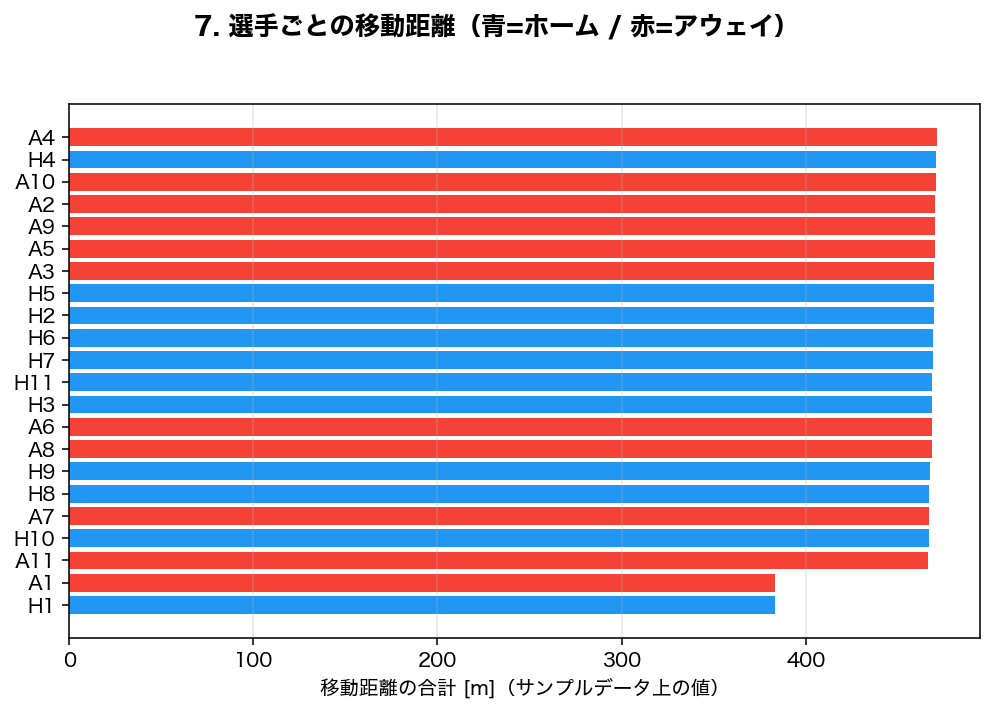
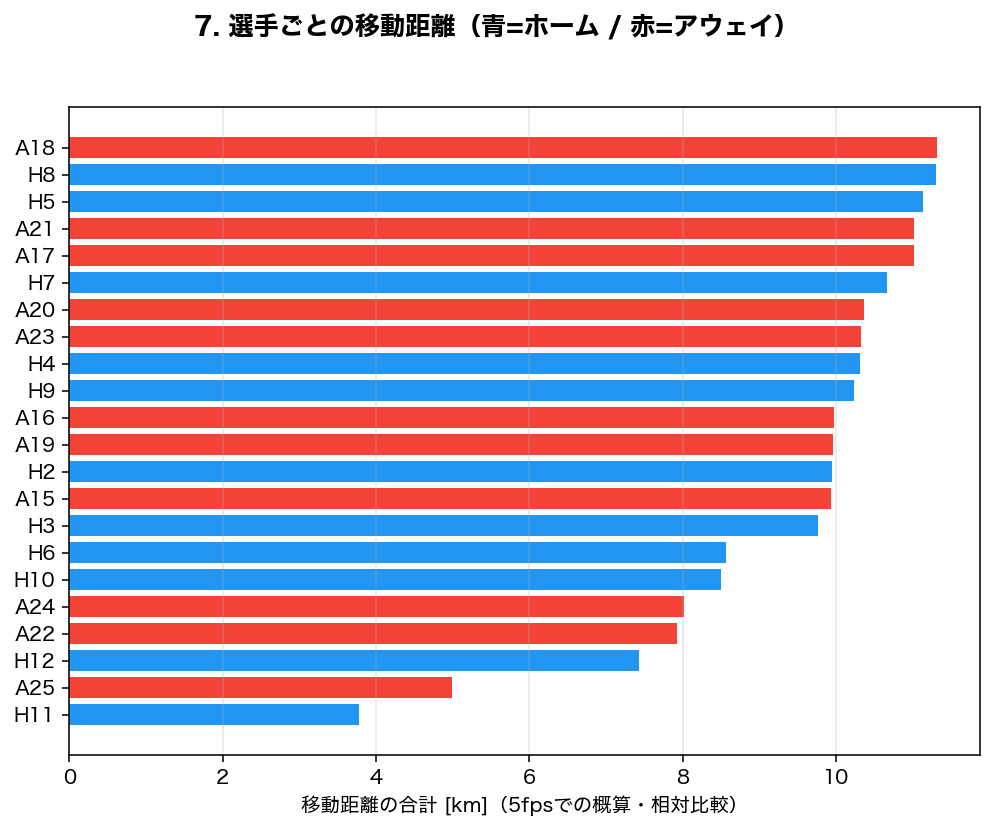
feat(md2): 第3回の分析ギャラリーを本物のデータ(Metrica)に差し替え
- 合成soccer.csvではなく、Metrica Sports Sample Game 1(実試合・25fps)を分析した本物の10図に更新
  ・0〜1正規化→メートル変換、後半の攻撃方向そろえ、25→5fps間引きの前処理を実装
  ・ヒートマップ・平均ポジション・移動距離(中盤~10km/GK最少)・重心の時間変化など、実データらしい結果に
- 再現スクリプト metrica_analysis.py を配布(Metricaデータのダウンロード手順つき)。soccer_analysis.pyは削除
- キャプション/読み方を「実際のプロ試合データの分析結果」に正直に修正(合成データの注記を削除)

diff --git a/docs/md2_week_3.html b/docs/md2_week_3.html
@@ -1670,21 +1670,28 @@ python -m http.server 8000</pre>
 
       <!-- 実際にやってみた：10例の分析・可視化ギャラリー -->
       <div class="card group" style="margin-top:0.8rem">
-        <div class="card-header"><h3>✅ 実際にやってみた：<code>soccer.csv</code> を分析・可視化した10例</h3></div>
-        <p style="font-size:0.9rem;color:#ccc;margin-bottom:0.5rem">ウプサラ大学の例のように、今日の <code>soccer.csv</code> <strong>だけ</strong>から Python（<strong>pandas + matplotlib</strong>）でサッカーピッチ上に描いた分析例。<strong>特に注目：ホーム／アウェイが「フィールドのどこをよく使ったか」のヒートマップ（下の 1・2）</strong>。</p>
+        <div class="card-header"><h3>✅ 実際にやってみた：<strong>本物のトラッキングデータ</strong>を分析・可視化した10例</h3></div>
+        <p style="font-size:0.9rem;color:#ccc;margin-bottom:0.5rem">ウプサラ大学の例と同じように、<strong>本物のサッカーのトラッキングデータ</strong>（<a href="https://github.com/metrica-sports/sample-data" target="_blank" rel="noopener" style="color:#4FC3F7">Metrica Sports が公開する Sample Game 1</a>・約90分・25fps・実試合）を Python（<strong>pandas + matplotlib</strong>）で分析した結果。<strong>特に注目：ホーム／アウェイが「フィールドのどこをよく使ったか」のヒートマップ（下の 1・2）</strong>。今日 <code>soccer.csv</code> で学んだ読み方が、そのまま本物にも通用する。</p>
 
         <div class="callout-tip" style="margin-bottom:0.6rem">
-          <h4>自分で動かすには</h4>
-          <p style="font-size:0.88rem;margin-bottom:0.3rem">分析スクリプトを配布しています：<a href="soccer_analysis.py" download style="color:#4FC3F7;font-weight:700">soccer_analysis.py をダウンロード</a>（<code>soccer.csv</code> と同じフォルダに置く）。第3回の手順で pandas を入れたら、matplotlib も足して実行：</p>
+          <h4>自分で動かすには（本物データを入手して実行）</h4>
+          <p style="font-size:0.88rem;margin-bottom:0.3rem">分析スクリプト <a href="metrica_analysis.py" download style="color:#4FC3F7;font-weight:700">metrica_analysis.py をダウンロード</a>し、Metrica の公開データを同じフォルダに置いて実行する：</p>
 <pre>Terminal
+<span class="cmt"># ① Metricaの公開サンプルデータを取得</span>
+B=https://raw.githubusercontent.com/metrica-sports/sample-data/master/data/Sample_Game_1
+curl -L "$B/Sample_Game_1_RawTrackingData_Home_Team.csv" -o home.csv
+curl -L "$B/Sample_Game_1_RawTrackingData_Away_Team.csv" -o away.csv
+
+<span class="cmt"># ② ライブラリを入れて実行</span>
 uv pip install pandas matplotlib
-python soccer_analysis.py      <span class="cmt"># anal_01.png 〜 anal_10.png が出力される</span></pre>
+python metrica_analysis.py     <span class="cmt"># anal_01.png 〜 anal_10.png が出力される</span></pre>
         </div>
 
         <p style="font-weight:700;color:#93D500;font-size:0.9rem;margin:0.4rem 0 0.2rem">ヒートマップの中心となるコード（＝位置をマス目で数えて色にする）</p>
 <pre>Python
-<span class="kw">import</span> pandas <span class="kw">as</span> pd, numpy <span class="kw">as</span> np, matplotlib.pyplot <span class="kw">as</span> plt
-df = pd.<span class="fn">read_csv</span>(<span class="str">'soccer.csv'</span>)
+<span class="kw">import</span> numpy <span class="kw">as</span> np, matplotlib.pyplot <span class="kw">as</span> plt
+<span class="cmt"># Metricaデータを読み込み→メートルに変換→縦持ちにした表（読み込み処理は metrica_analysis.py）</span>
+df = <span class="fn">load_metrica</span>()
 home = df[df[<span class="str">'team'</span>] == <span class="str">'home'</span>]          <span class="cmt"># ホームだけ抽出</span>
 
 <span class="cmt"># 位置を2次元ヒストグラムにする（＝フィールドをマス目に区切って数える）</span>
@@ -1694,27 +1701,29 @@ H, _, _ = np.<span class="fn">histogram2d</span>(home[<span class="str">'x'</spa
 plt.<span class="fn">imshow</span>(H.T, origin=<span class="str">'lower'</span>, extent=[-<span class="num">52.5</span>, <span class="num">52.5</span>, -<span class="num">34</span>, <span class="num">34</span>],
            cmap=<span class="str">'YlOrRd'</span>)                <span class="cmt"># よく使ったマスほど濃い色に</span>
 plt.<span class="fn">savefig</span>(<span class="str">'home_heatmap.png'</span>)</pre>
-        <p style="font-size:0.82rem;color:#999;margin:0.2rem 0 0.6rem">※ 上は要点だけ。緑のピッチや白線を描く <code>draw_pitch()</code> を含む全コードは <code>soccer_analysis.py</code> にある。</p>
+        <p style="font-size:0.82rem;color:#999;margin:0.2rem 0 0.6rem">※ 上は要点だけ。Metricaデータの読み込み（0〜1座標→メートル変換、後半の向きそろえ）や、緑のピッチを描く <code>draw_pitch()</code> を含む全コードは <code>metrica_analysis.py</code> にある。</p>
 
         <div style="display:grid;grid-template-columns:repeat(auto-fit,minmax(16rem,1fr));gap:0.7rem">
-          <figure style="margin:0"><img src="img/md2w3_anal_01.png" alt="ホームチームのフィールド利用ヒートマップ" style="width:100%;border:1px solid #333;border-radius:8px;display:block"><figcaption style="font-size:0.8rem;color:#ccc;margin-top:0.2rem">① ホームは<strong>自陣（左）〜中央</strong>をよく使う</figcaption></figure>
-          <figure style="margin:0"><img src="img/md2w3_anal_02.png" alt="アウェイチームのフィールド利用ヒートマップ" style="width:100%;border:1px solid #333;border-radius:8px;display:block"><figcaption style="font-size:0.8rem;color:#ccc;margin-top:0.2rem">② アウェイは<strong>自陣（右）〜中央</strong>が中心</figcaption></figure>
-          <figure style="margin:0"><img src="img/md2w3_anal_03.png" alt="ボールのフィールド利用ヒートマップ" style="width:100%;border:1px solid #333;border-radius:8px;display:block"><figcaption style="font-size:0.8rem;color:#ccc;margin-top:0.2rem">③ ボールは<strong>広く動き回る</strong></figcaption></figure>
-          <figure style="margin:0"><img src="img/md2w3_anal_04.png" alt="陣地の優勢（ホーム−アウェイの密度差）" style="width:100%;border:1px solid #333;border-radius:8px;display:block"><figcaption style="font-size:0.8rem;color:#ccc;margin-top:0.2rem">④ 陣地の優勢：<strong>青=左（ホーム）／赤=右（アウェイ）</strong></figcaption></figure>
-          <figure style="margin:0"><img src="img/md2w3_anal_05.png" alt="ホームの平均フォーメーション" style="width:100%;border:1px solid #333;border-radius:8px;display:block"><figcaption style="font-size:0.8rem;color:#ccc;margin-top:0.2rem">⑤ ホームの<strong>平均フォーメーション</strong>（背番号つき）</figcaption></figure>
-          <figure style="margin:0"><img src="img/md2w3_anal_06.png" alt="アウェイの平均フォーメーション" style="width:100%;border:1px solid #333;border-radius:8px;display:block"><figcaption style="font-size:0.8rem;color:#ccc;margin-top:0.2rem">⑥ アウェイの<strong>平均フォーメーション</strong></figcaption></figure>
-          <figure style="margin:0"><img src="img/md2w3_anal_07.png" alt="選手ごとの移動距離" style="width:100%;border:1px solid #333;border-radius:8px;display:block"><figcaption style="font-size:0.8rem;color:#ccc;margin-top:0.2rem">⑦ 選手ごとの<strong>移動距離</strong>（誰がよく走ったか）</figcaption></figure>
-          <figure style="margin:0"><img src="img/md2w3_anal_08.png" alt="ボールの軌跡" style="width:100%;border:1px solid #333;border-radius:8px;display:block"><figcaption style="font-size:0.8rem;color:#ccc;margin-top:0.2rem">⑧ <strong>ボールの軌跡</strong>（90分ぶん）</figcaption></figure>
-          <figure style="margin:0"><img src="img/md2w3_anal_09.png" alt="チーム重心Xの時間変化" style="width:100%;border:1px solid #333;border-radius:8px;display:block"><figcaption style="font-size:0.8rem;color:#ccc;margin-top:0.2rem">⑨ チーム重心X の時間変化＝<strong>攻め上がり／守りの波</strong></figcaption></figure>
+          <figure style="margin:0"><img src="img/md2w3_anal_01.png" alt="ホームのフィールド利用ヒートマップ（Metrica実データ）" style="width:100%;border:1px solid #333;border-radius:8px;display:block"><figcaption style="font-size:0.8rem;color:#ccc;margin-top:0.2rem">① ホームは<strong>自陣＋中央</strong>に長くいた（濃い所ほど滞在が長い）</figcaption></figure>
+          <figure style="margin:0"><img src="img/md2w3_anal_02.png" alt="アウェイのフィールド利用ヒートマップ（Metrica実データ）" style="width:100%;border:1px solid #333;border-radius:8px;display:block"><figcaption style="font-size:0.8rem;color:#ccc;margin-top:0.2rem">② アウェイも<strong>自陣＋中央</strong>が濃い</figcaption></figure>
+          <figure style="margin:0"><img src="img/md2w3_anal_03.png" alt="ボールのフィールド利用ヒートマップ（Metrica実データ）" style="width:100%;border:1px solid #333;border-radius:8px;display:block"><figcaption style="font-size:0.8rem;color:#ccc;margin-top:0.2rem">③ ボールは<strong>中央のレーンを軸に</strong>動く</figcaption></figure>
+          <figure style="margin:0"><img src="img/md2w3_anal_04.png" alt="陣地の優勢（ホーム−アウェイの密度差）" style="width:100%;border:1px solid #333;border-radius:8px;display:block"><figcaption style="font-size:0.8rem;color:#ccc;margin-top:0.2rem">④ 陣地の優勢：<strong>青=左（ホーム）／赤=右（アウェイ）</strong>で自陣側を支配</figcaption></figure>
+          <figure style="margin:0"><img src="img/md2w3_anal_05.png" alt="ホームの平均ポジション" style="width:100%;border:1px solid #333;border-radius:8px;display:block"><figcaption style="font-size:0.8rem;color:#ccc;margin-top:0.2rem">⑤ ホームの<strong>平均ポジション</strong>（実際の布陣が浮かぶ）</figcaption></figure>
+          <figure style="margin:0"><img src="img/md2w3_anal_06.png" alt="アウェイの平均ポジション" style="width:100%;border:1px solid #333;border-radius:8px;display:block"><figcaption style="font-size:0.8rem;color:#ccc;margin-top:0.2rem">⑥ アウェイの<strong>平均ポジション</strong></figcaption></figure>
+          <figure style="margin:0"><img src="img/md2w3_anal_07.png" alt="選手ごとの移動距離" style="width:100%;border:1px solid #333;border-radius:8px;display:block"><figcaption style="font-size:0.8rem;color:#ccc;margin-top:0.2rem">⑦ <strong>移動距離</strong>：中盤は約10km、GKが最少 ← サッカーの常識どおり</figcaption></figure>
+          <figure style="margin:0"><img src="img/md2w3_anal_08.png" alt="ボールの軌跡" style="width:100%;border:1px solid #333;border-radius:8px;display:block"><figcaption style="font-size:0.8rem;color:#ccc;margin-top:0.2rem">⑧ <strong>ボールの軌跡</strong>（試合開始〜15分）</figcaption></figure>
+          <figure style="margin:0"><img src="img/md2w3_anal_09.png" alt="チーム重心Xの時間変化" style="width:100%;border:1px solid #333;border-radius:8px;display:block"><figcaption style="font-size:0.8rem;color:#ccc;margin-top:0.2rem">⑨ チーム重心X の時間変化＝<strong>攻守で前後する波</strong>（両チーム連動）</figcaption></figure>
           <figure style="margin:0"><img src="img/md2w3_anal_10.png" alt="両チーム重心の軌跡" style="width:100%;border:1px solid #333;border-radius:8px;display:block"><figcaption style="font-size:0.8rem;color:#ccc;margin-top:0.2rem">⑩ 両チーム<strong>重心の軌跡</strong>（青=ホーム／赤=アウェイ）</figcaption></figure>
         </div>
 
         <div class="callout-info" style="margin-top:0.6rem">
           <h4>この結果の読み方（＝発展課題のヒント）</h4>
           <ul class="point-list" style="margin-bottom:0">
-            <li>ヒートマップ①②で、両チームが<strong>それぞれ自陣寄りをよく使い、中央で押し合っている</strong>のが見える</li>
-            <li>これらは<strong>すべて <code>soccer.csv</code> だけ</strong>から作れる。あなたも <code>soccer_analysis.py</code> の1つを選んで改造したり、A-Frame（3D）で同じ指標を表示すれば、りっぱな発展課題になる</li>
-            <li><span style="color:#999">※ 今回は合成サンプルなので分布が規則的だが、本物のトラッキングデータでも<strong>同じコード</strong>で分析できる。</span></li>
+            <li>ヒートマップ①②で、両チームとも<strong>自陣＋中央に長くいて、相手ゴール前（攻撃サード）は薄い</strong> ── 守る時間が長く、中央を経由する、という<strong>本物の試合の傾向</strong>が読み取れる</li>
+            <li>⑦の移動距離で <strong>GK が最少・中盤が最多（約10km）</strong>という、サッカーの常識どおりの結果が計算だけから出る</li>
+            <li><strong>これは正真正銘、実際のプロの試合データ（Metrica）の分析結果</strong>。今日 <code>soccer.csv</code> で覚えた「読み込む → 抽出する → <code>histogram2d</code> で数える」手順が、そのまま本物に通用する</li>
+            <li>あなたも指標を1つ選んで作り、A-Frame（3D）で同じものを表示すれば、りっぱな発展課題になる</li>
+            <li><span style="color:#999">データ出典：Metrica Sports Sample Data（研究・教育用に無償公開）。</span></li>
           </ul>
         </div>
       </div>

diff --git a/docs/metrica_analysis.py b/docs/metrica_analysis.py
@@ -1,0 +1,177 @@
+"""Metrica Sports の本物のトラッキングデータ（Sample Game 1）を分析・可視化する（10例）。
+ホーム/アウェイのフィールド利用ヒートマップなどを、サッカーピッチ上に描画する。
+
+■ データの入手（無料・公開データ）
+  Metrica Sports が研究・教育向けに公開しているサンプルデータ。次の2ファイルを
+  このスクリプトと同じフォルダに置く（ファイル名を home.csv / away.csv に変える）:
+    home.csv ← Sample_Game_1_RawTrackingData_Home_Team.csv
+    away.csv ← Sample_Game_1_RawTrackingData_Away_Team.csv
+  取得元（どちらでも）:
+    - GitHub: https://github.com/metrica-sports/sample-data （data/Sample_Game_1/）
+    - Kaggle: https://www.kaggle.com/datasets/ekrembayar/metrica-sports-football-tracking-data
+  ダウンロード例（ターミナル）:
+    B=https://raw.githubusercontent.com/metrica-sports/sample-data/master/data/Sample_Game_1
+    curl -L "$B/Sample_Game_1_RawTrackingData_Home_Team.csv" -o home.csv
+    curl -L "$B/Sample_Game_1_RawTrackingData_Away_Team.csv" -o away.csv
+
+■ 実行
+    uv pip install pandas matplotlib
+    python metrica_analysis.py       # anal_01.png 〜 anal_10.png が出力される
+
+※ 生の座標は 0〜1 に正規化されている。メートル(中心が原点)に変換し、後半は
+   攻撃方向がそろうように 180度回転してから集計する（分析の定番の前処理）。
+"""
+import csv, os
+import numpy as np
+import pandas as pd
+import matplotlib
+matplotlib.use("Agg")
+import matplotlib.pyplot as plt
+from matplotlib.patches import Rectangle, Circle
+
+plt.rcParams["font.family"] = ["Hiragino Sans", "Meiryo", "IPAexGothic", "sans-serif"]
+plt.rcParams["axes.unicode_minus"] = False
+
+FIELD = (105.0, 68.0)
+L, W = FIELD[0] / 2, FIELD[1] / 2
+BLUE, RED = "#2196f3", "#f44336"
+STEP = 5   # 25fps → 5fps に間引き（軽くするため）
+
+
+def read_team(fname, team):
+    """Metrica形式のCSVを読み、メートル座標＋攻撃方向をそろえて返す。"""
+    with open(fname) as fp:
+        r = csv.reader(fp); next(r)
+        jerseys = [x for x in next(r) if x != '']
+        cols = next(r)
+    for i, j in enumerate(jerseys):
+        cols[i * 2 + 3] = team + "_" + j + "_x"
+        cols[i * 2 + 4] = team + "_" + j + "_y"
+    cols[-2], cols[-1] = "ball_x", "ball_y"
+    df = pd.read_csv(fname, names=cols, skiprows=3)
+    xs = [c for c in df.columns if c.endswith("_x")]
+    ys = [c for c in df.columns if c.endswith("_y")]
+    df[xs] = (df[xs] - 0.5) * FIELD[0]        # 0〜1 → メートル(中心が原点)
+    df[ys] = -1 * (df[ys] - 0.5) * FIELD[1]
+    df.loc[df.Period == 2, xs + ys] *= -1      # 後半は攻撃方向をそろえる
+    return df
+
+
+def melt(df, team):
+    """各選手の (x,y) を縦に積んで long 形式 {frame,team,id,x,y} にする。"""
+    out = []
+    d = df.iloc[::STEP]
+    for cx in [c for c in d.columns if c.startswith(team + "_") and c.endswith("_x")]:
+        pid = int(cx.split("_")[1]); cy = cx[:-2] + "_y"
+        s = d[["Frame", cx, cy]].dropna().rename(columns={"Frame": "frame", cx: "x", cy: "y"})
+        s["team"] = team.lower(); s["id"] = pid
+        out.append(s)
+    return pd.concat(out, ignore_index=True)
+
+
+H = read_team("home.csv", "Home")
+A = read_team("away.csv", "Away")
+home, away = melt(H, "Home"), melt(A, "Away")
+ball = H.iloc[::STEP][["Frame", "ball_x", "ball_y"]].dropna() \
+        .rename(columns={"Frame": "frame", "ball_x": "x", "ball_y": "y"})
+ball["team"] = "ball"; ball["id"] = 0
+
+
+def draw_pitch(ax, bg="#2e7d32", line="white"):
+    ax.add_patch(Rectangle((-L, -W), 105, 68, facecolor=bg, edgecolor=line, lw=1.6, zorder=0))
+    ax.plot([0, 0], [-W, W], color=line, lw=1.4, zorder=2)
+    ax.add_patch(Circle((0, 0), 9.15, fill=False, ec=line, lw=1.4, zorder=2))
+    ax.add_patch(Circle((0, 0), 0.5, color=line, zorder=2))
+    for s in (-L, L - 16.5):
+        ax.add_patch(Rectangle((s, -20.16), 16.5, 40.32, fill=False, ec=line, lw=1.4, zorder=2))
+    for s in (-L, L - 5.5):
+        ax.add_patch(Rectangle((s, -9.16), 5.5, 18.32, fill=False, ec=line, lw=1.4, zorder=2))
+    ax.set_xlim(-56, 56); ax.set_ylim(-38, 38); ax.set_aspect("equal"); ax.axis("off")
+
+
+def save(fig, name, title):
+    fig.suptitle(title, fontsize=13, fontweight="bold", y=0.98)
+    fig.tight_layout(rect=[0, 0, 1, 0.95])
+    fig.savefig(name, facecolor="white", bbox_inches="tight"); plt.close(fig)
+    print("saved", name)
+
+
+def heatmap(sub, name, title):
+    fig, ax = plt.subplots(figsize=(7.2, 4.9)); draw_pitch(ax)
+    Hh, _, _ = np.histogram2d(sub.x, sub.y, bins=[50, 32], range=[[-L, L], [-W, W]])
+    Hm = np.where(Hh.T > 0, Hh.T, np.nan)
+    c = plt.get_cmap("YlOrRd").copy(); c.set_bad(alpha=0)
+    ax.imshow(Hm, extent=[-L, L, -W, W], origin="lower", cmap=c, alpha=0.8,
+              vmax=np.nanpercentile(Hh[Hh > 0], 97), interpolation="bilinear", zorder=1)
+    save(fig, name, title)
+
+
+heatmap(home, "anal_01.png", "1. ホームのフィールド利用ヒートマップ（Metrica実データ）")
+heatmap(away, "anal_02.png", "2. アウェイのフィールド利用ヒートマップ（Metrica実データ）")
+heatmap(ball, "anal_03.png", "3. ボールのフィールド利用ヒートマップ（Metrica実データ）")
+
+# 4. 陣地の優勢
+fig, ax = plt.subplots(figsize=(7.2, 4.9)); draw_pitch(ax, bg="#20402a")
+Hh, _, _ = np.histogram2d(home.x, home.y, bins=[50, 32], range=[[-L, L], [-W, W]])
+Ha, _, _ = np.histogram2d(away.x, away.y, bins=[50, 32], range=[[-L, L], [-W, W]])
+D = (Hh - Ha).T; m = np.nanpercentile(np.abs(D), 99) or 1
+ax.imshow(D, extent=[-L, L, -W, W], origin="lower", cmap="bwr_r", vmin=-m, vmax=m,
+          alpha=0.85, interpolation="bilinear", zorder=1)
+ax.text(-L + 3, -W + 2, "青=ホーム優勢", color=BLUE, fontsize=9, fontweight="bold")
+ax.text(L - 22, -W + 2, "赤=アウェイ優勢", color=RED, fontsize=9, fontweight="bold")
+save(fig, "anal_04.png", "4. 陣地の優勢（ホーム − アウェイの密度差）")
+
+# 5・6 平均ポジション（出場上位11人）
+for tdf, col, name, title in [
+    (home, BLUE, "anal_05.png", "5. ホームの平均ポジション（出場上位11人）"),
+    (away, RED, "anal_06.png", "6. アウェイの平均ポジション（出場上位11人）"),
+]:
+    fig, ax = plt.subplots(figsize=(7.2, 4.9)); draw_pitch(ax)
+    g = tdf[tdf.id.isin(tdf.id.value_counts().head(11).index)].groupby("id")[["x", "y"]].mean()
+    ax.scatter(g.x, g.y, s=520, c=col, edgecolors="white", linewidths=1.5, zorder=3)
+    for pid, row in g.iterrows():
+        ax.text(row.x, row.y, str(int(pid)), color="white", ha="center", va="center",
+                fontsize=9, fontweight="bold", zorder=4)
+    save(fig, name, title)
+
+# 7. 移動距離
+def dist_by_id(tdf):
+    res = {}
+    for pid, s in tdf.sort_values("frame").groupby("id"):
+        step = np.sqrt(s.x.diff() ** 2 + s.y.diff() ** 2)
+        res[pid] = float(step[s.frame.diff() == STEP].sum())
+    return res
+
+rows = []
+for tdf, tag in [(home, "H"), (away, "A")]:
+    top = tdf[tdf.id.isin(tdf.id.value_counts().head(11).index)]
+    for pid, v in dist_by_id(top).items():
+        rows.append((tag + str(int(pid)), tag, v))
+dist = pd.DataFrame(rows, columns=["label", "t", "dist"]).sort_values("dist")
+fig, ax = plt.subplots(figsize=(7.2, 6.0))
+ax.barh(dist.label, dist.dist / 1000, color=[BLUE if t == "H" else RED for t in dist.t])
+ax.set_xlabel("移動距離の合計 [km]（5fpsでの概算・相対比較）"); ax.grid(axis="x", alpha=0.3)
+save(fig, "anal_07.png", "7. 選手ごとの移動距離（青=ホーム / 赤=アウェイ）")
+
+# 8. ボールの軌跡（前半15分）
+fig, ax = plt.subplots(figsize=(7.2, 4.9)); draw_pitch(ax)
+seg = ball[ball.frame < 25 * 60 * 15]
+ax.plot(seg.x, seg.y, color="yellow", lw=0.5, alpha=0.7, zorder=2)
+save(fig, "anal_08.png", "8. ボールの軌跡（試合開始〜15分）")
+
+# 9. チーム重心Xの時間変化
+fig, ax = plt.subplots(figsize=(7.2, 4.2))
+ch = home.groupby("frame").x.mean(); ca = away.groupby("frame").x.mean()
+ax.plot(ch.index / 25 / 60, ch.values, color=BLUE, lw=0.5, alpha=0.85, label="ホーム重心X")
+ax.plot(ca.index / 25 / 60, ca.values, color=RED, lw=0.5, alpha=0.85, label="アウェイ重心X")
+ax.axhline(0, color="#888", lw=0.8)
+ax.set_xlabel("試合時間 [分]"); ax.set_ylabel("重心のX座標 [m]"); ax.legend(); ax.grid(alpha=0.3)
+save(fig, "anal_09.png", "9. チーム重心X の時間変化（攻め上がり／守り）")
+
+# 10. 両チーム重心の軌跡
+fig, ax = plt.subplots(figsize=(7.2, 4.9)); draw_pitch(ax)
+ax.plot(home.groupby("frame").x.mean(), home.groupby("frame").y.mean(), color=BLUE, lw=0.3, alpha=0.5)
+ax.plot(away.groupby("frame").x.mean(), away.groupby("frame").y.mean(), color=RED, lw=0.3, alpha=0.5)
+save(fig, "anal_10.png", "10. 両チーム重心の軌跡（青=ホーム / 赤=アウェイ）")
+
+print("done: anal_01.png 〜 anal_10.png を出力しました")
